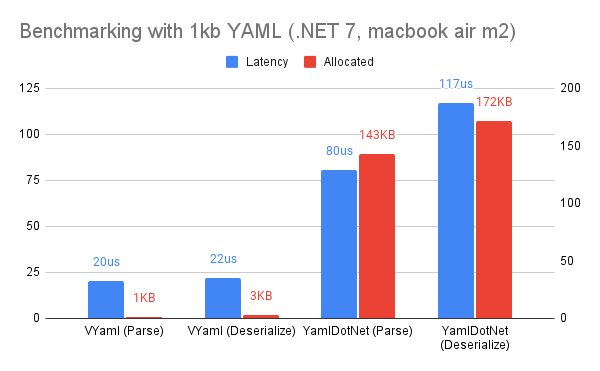
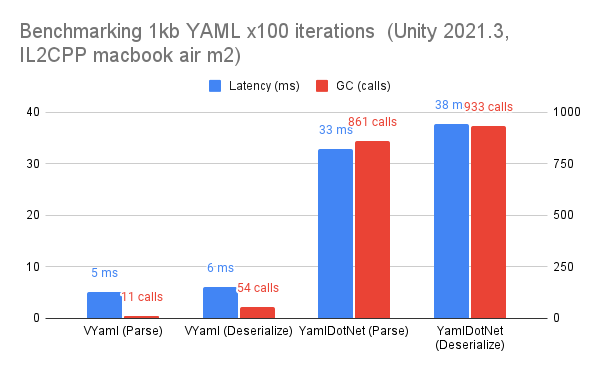
Fix screenshots

diff --git a/README.md b/README.md
@@ -10,7 +10,7 @@ The reason VYaml is fast is it handles utf8 byte sequences directly with new fac
 In parsing, scalar values are pooled and no allocation occurs until `Scalar.ToString()`. This works with very low memory footprint and low performance overhead, in environments such as Unity.
 
 ![screenshot_benchmark_dotnet.png](./screenshots/screenshot_benchmark_dotnet.png)
-![screenshot_benchmark_unity.png](./screenshots/screenshot_benchmark_dotnet.png)
+![screenshot_benchmark_unity.png](./screenshots/screenshot_benchmark_unity.png)
 
 Compared with [YamlDotNet](https://github.com/aaubry/YamlDotNet) (most popular yaml library in C#), basically 6x faster and about 1/50 heap allocations in some case.
 
